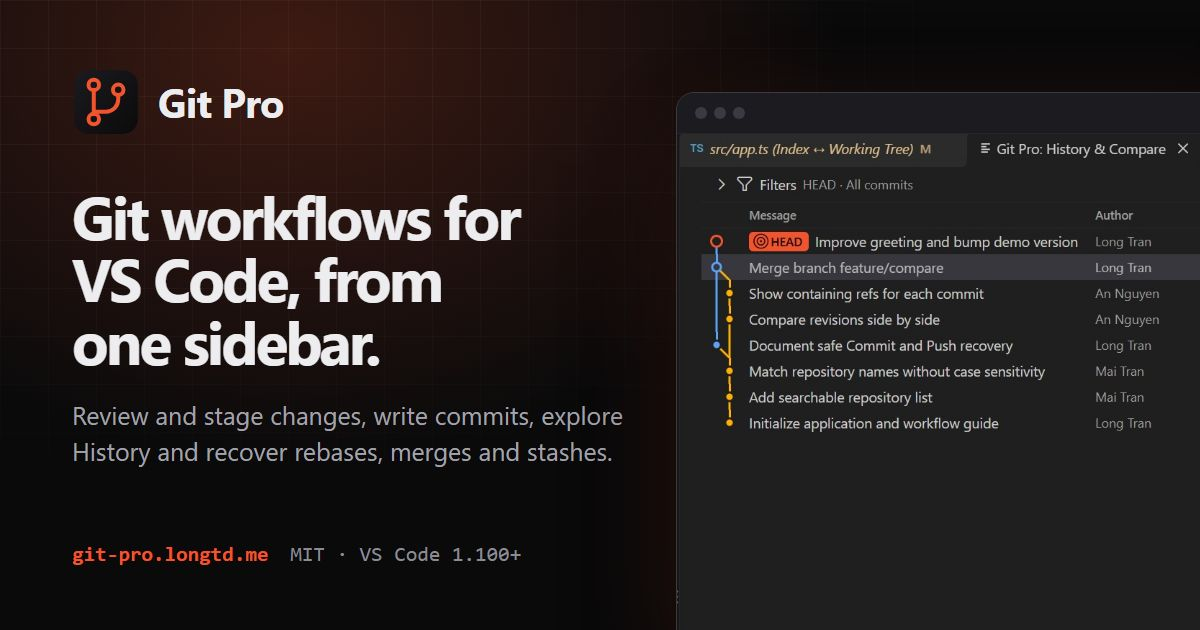
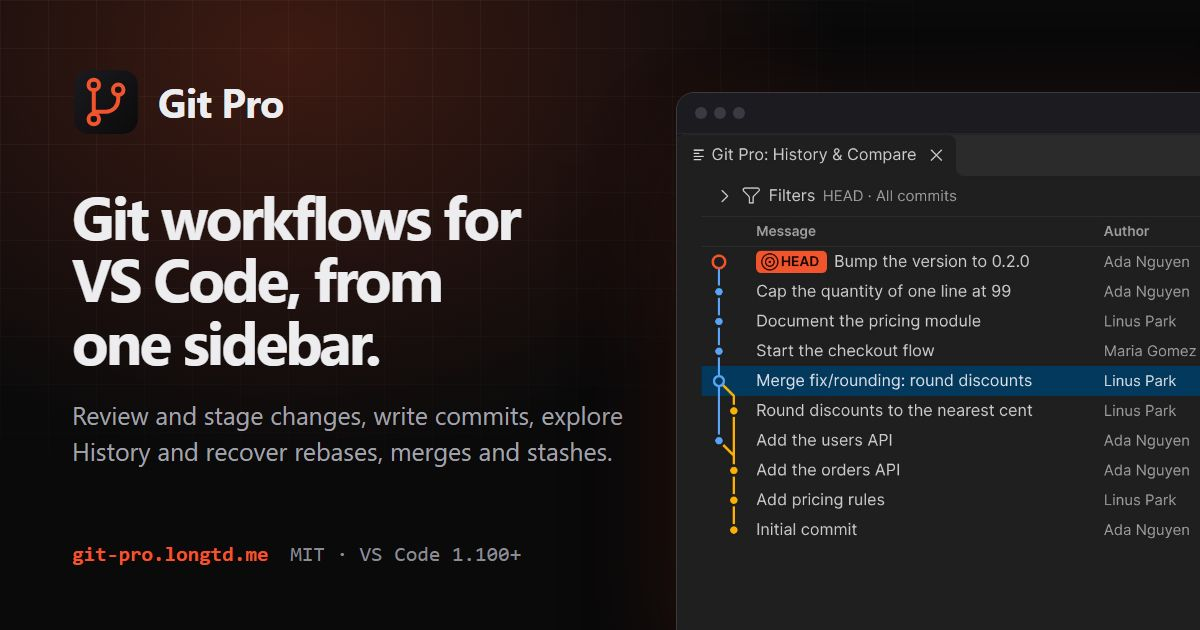
Render the social card from the new History screenshot
site/og.jpg still showed the old History screenshot. The card is rendered again
from docs/images/history.jpg, cropped to the tab: the graph, the messages and
the authors.

Changed region(s): [[0.555, 0.2111, 1.0, 0.8444], [0.8017, 0.2111, 0.9867, 0.2413], [0.925, 0.7841, 0.9867, 0.8746]]

diff --git a/site/og/og-card.html b/site/og/og-card.html
@@ -137,9 +137,9 @@
 
     .og-shot-view img {
       position: absolute;
-      left: -378px;
-      top: -8px;
-      width: 1555px;
+      left: -66px;
+      top: 0;
+      width: 1340px;
       max-width: none;
       height: auto;
     }
